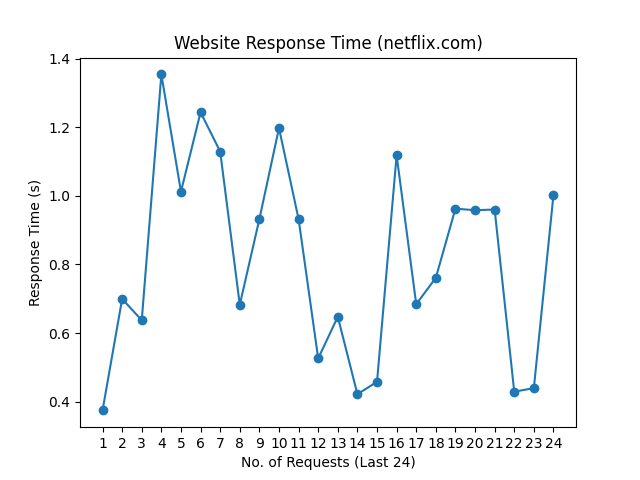
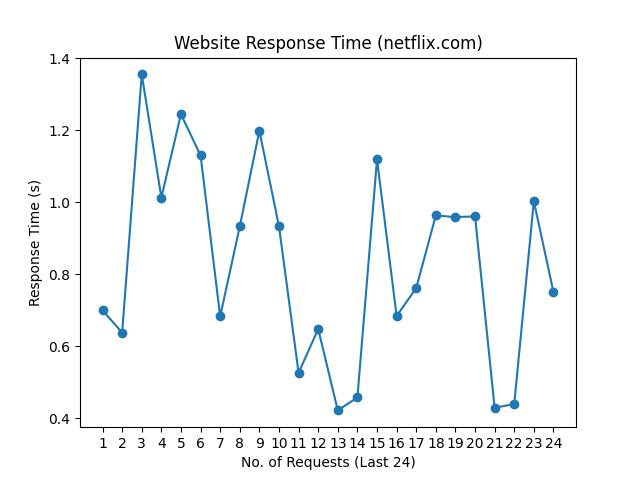
update README.md, history and graph

diff --git a/README.md b/README.md
@@ -1,10 +1,10 @@
 # Web Monitoring
 
-Last Checked: 24/04/2024 09:02
+Last Checked: 25/04/2024 09:04
 
 | Website | Response Time (s) | Status | Avg Uptime (%) |
 |---------|-------------------|--------|----------------|
 | www.thiswebsiteisdown.net | 0 <br> <img src="graph/thiswebsiteisdown.net.png" alt="Graph" width="200" height="200">  | ❌ Down | 0.00 |
-| www.netflix.com | 1.002729 <br> <img src="graph/netflix.com.png" alt="Graph" width="200" height="200">  | ✅ Up | 100.00 |
-| www.google.com | 0.246318 <br> <img src="graph/google.com.png" alt="Graph" width="200" height="200">  | ✅ Up | 100.00 |
-| www.facebook.com | 0.933881 <br> <img src="graph/facebook.com.png" alt="Graph" width="200" height="200">  | ✅ Up | 100.00 |
+| www.netflix.com | 0.750443 <br> <img src="graph/netflix.com.png" alt="Graph" width="200" height="200">  | ✅ Up | 100.00 |
+| www.google.com | 0.276629 <br> <img src="graph/google.com.png" alt="Graph" width="200" height="200">  | ✅ Up | 100.00 |
+| www.facebook.com | 0.419408 <br> <img src="graph/facebook.com.png" alt="Graph" width="200" height="200">  | ✅ Up | 100.00 |
